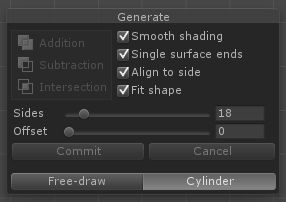
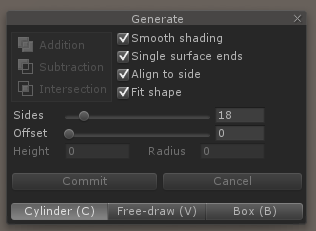
added box edit mode to getting started section

Changed region(s): [[0.0, 0.0, 1.0, 1.0], [0.8392, 0.5644, 0.9231, 0.5941]]

diff --git a/getstarted.html b/getstarted.html
@@ -110,6 +110,9 @@
                     or when you're maximizing your view and all your editor windows are hidden. But when you're<br />
                     switching between multiple views it can get in the way and then it's better to dock it.
                 </p>
+                <p>
+                    You can also do this by either pressing the hotkey control-F2, <br />or in version 1.300 and above by clicking in the close button on the edit modes window or the tool window,
+                </p>
                 <br />
                 <p>
                     Finally, you might want to know that when multiple brushes are underneath your mouse cursor, <br />
@@ -182,30 +185,50 @@
                     create brushes with (you can see the sub-tools at the bottom of the tool window):
                 </p>
 
-                <p class="center"><img src="assets/tutorial_generate_generic_shape_tool_window.png" width="286" height="162" /></p>
+                <p class="center"><img src="assets/tutorial_generate_generic_shape_tool_window.png" width="313" height="166" /></p>
                 <p>
                     "Free-draw" is the generic shape tool with which you can draw a 2D shape, <br />
-                    optionally edit that 2D shape, and extrude it.<br /><br />
+                    optionally edit that 2D shape, and extrude it.
+                </p>
+                <p class="center"><img src="assets/tutorial_generic_shape.png" width="360" height="332" /></p>
+                <p>
                     You can draw your 2D shape by creating a point everywhere you click. You can do this<br />
                     on any surface in the scene, or just on the grid. Note that you can use this tool in any <br />
                     edit mode by holding V while creating the points and then releasing V.
                 </p>
-                <p class="center"><img src="assets/tutorial_generic_shape.png" width="360" height="332" /></p>
 
             </div>
         </div>
 
         <div style="page-break-before:always">
             <div class="leftalign">
-                <p class="center"><img src="assets/tutorial_generate_cylinder_tool_window.png" width="282" height="202" /></p>
+                <p class="center"><img src="assets/tutorial_generate_cylinder_tool_window.png" width="316" height="231" /></p>
                 <p>
-                    This is the cylinder shape tool with which you can create a 2D circle and extrude it.<br />
-                    Same as above, you can create this 2D circle on any surface, or on the grid.<br />
-                    For Cylinders the hotkey is C.
+                    This is the cylinder shape tool with which you can create a 2D circle and extrude it.
                 </p>
                 <p class="center"><img src="assets/tutorial_cylinder.png" width="276" height="308" /></p>
-                <br />
-                <br />
+                <p>
+                    Again, you can create this 2D circle on any surface, or on the grid.<br />
+                    For Cylinders the hotkey is C.
+                </p>
+            </div>
+        </div>
+
+        <div style="page-break-before:always">
+            <div class="leftalign">
+                <p class="center"><img src="assets/tutorial_generate_box_tool_window.png" width="314" height="169" /></p>
+                <p>
+                    This is the box shape tool with which you can quickly create a rectangle and extrude it.<br />
+                </p>
+                <p class="center"><img src="assets/tutorial_box.png" width="276" height="308" /></p>
+                <p>
+                    For Boxes the hotkey is B. The box edit mode is available in version 1.300 and above.
+                </p>
+            </div>
+        </div>
+
+        <div style="page-break-before:always">
+            <div class="leftalign">
                 <p>
                     If you've already created some prefabs, another way to create your brushes is to drag<br />
                     a prefab into your scene that contains your premade brushes. If you only want to copy<br />
